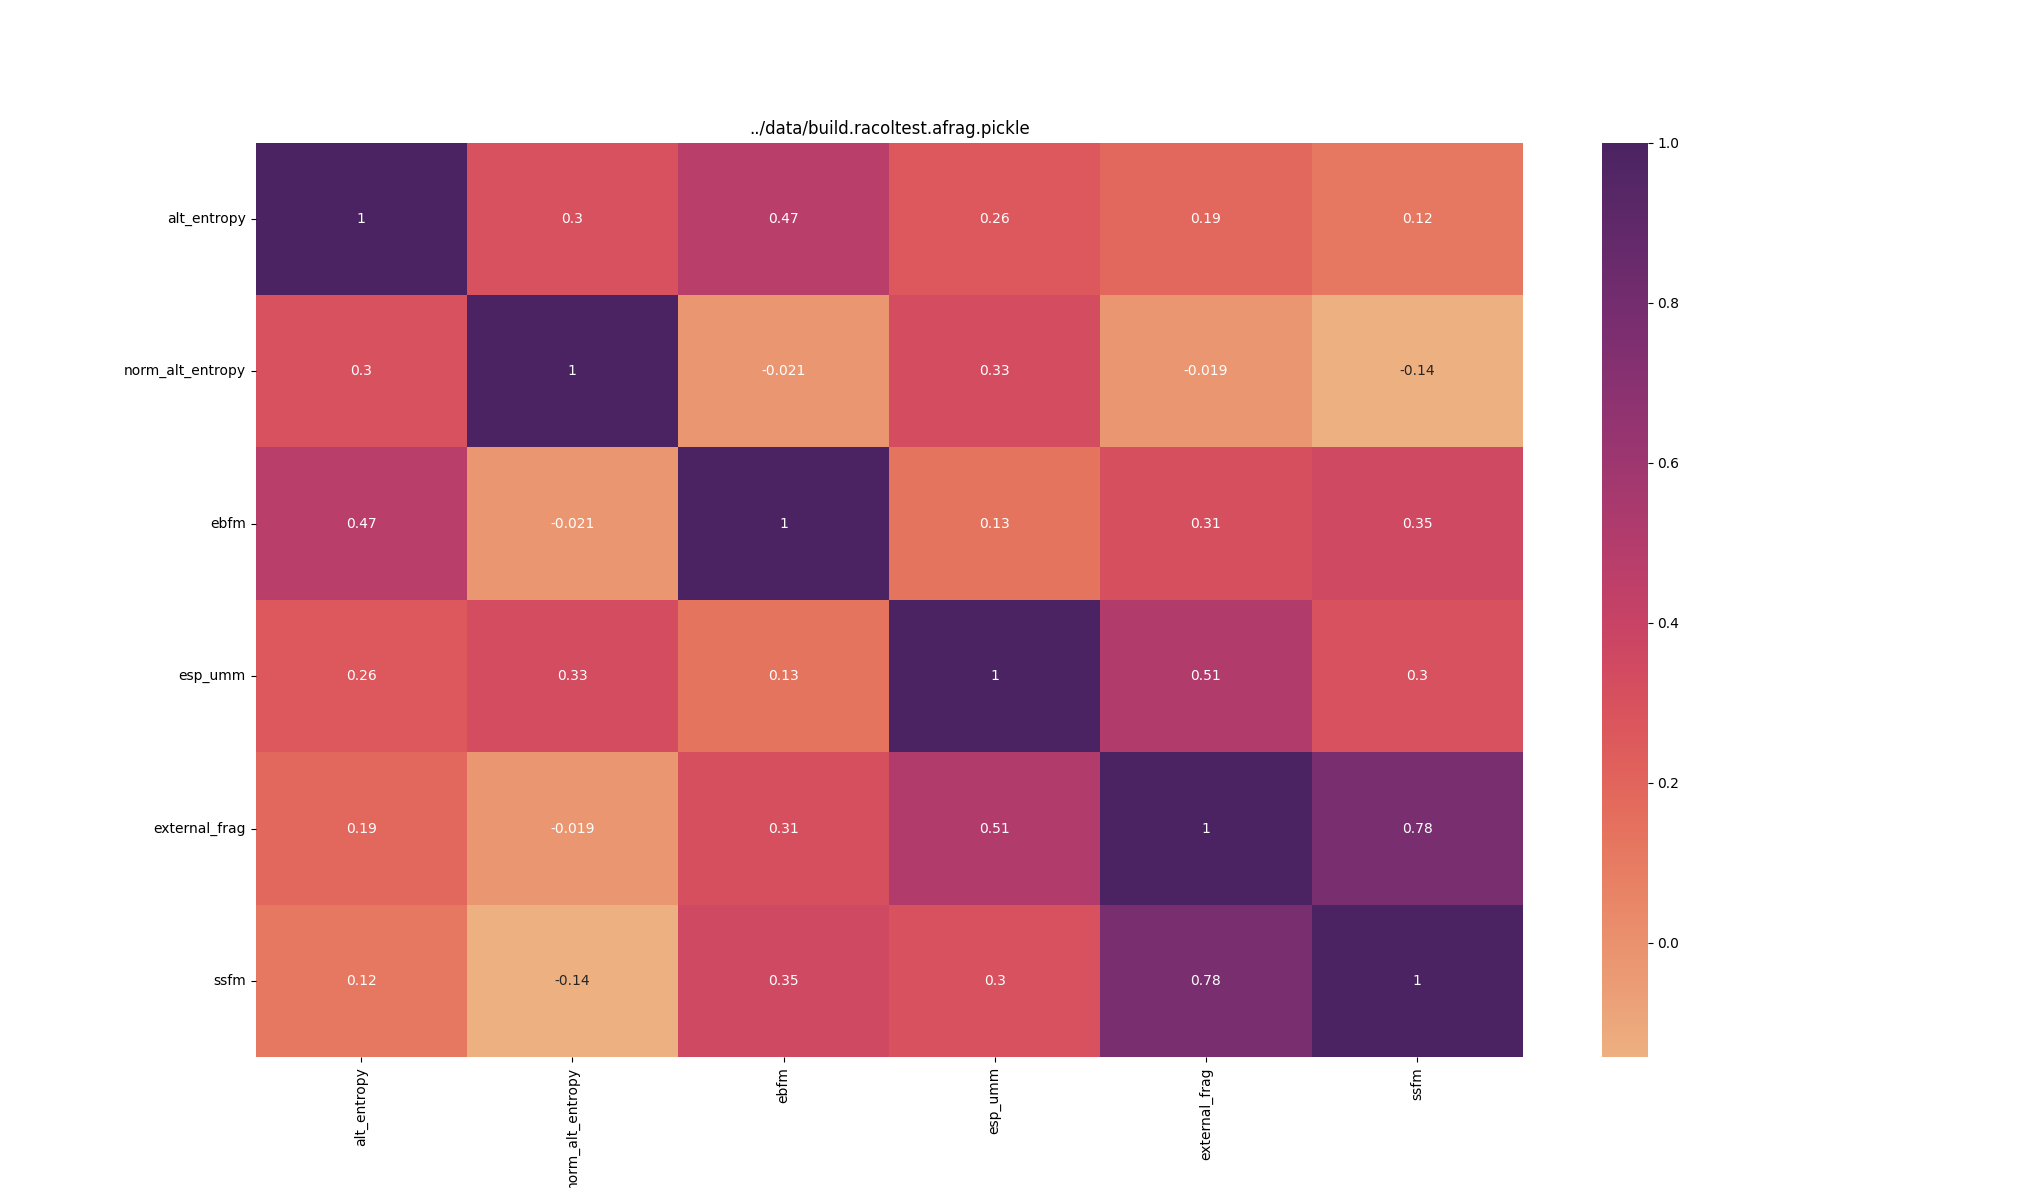
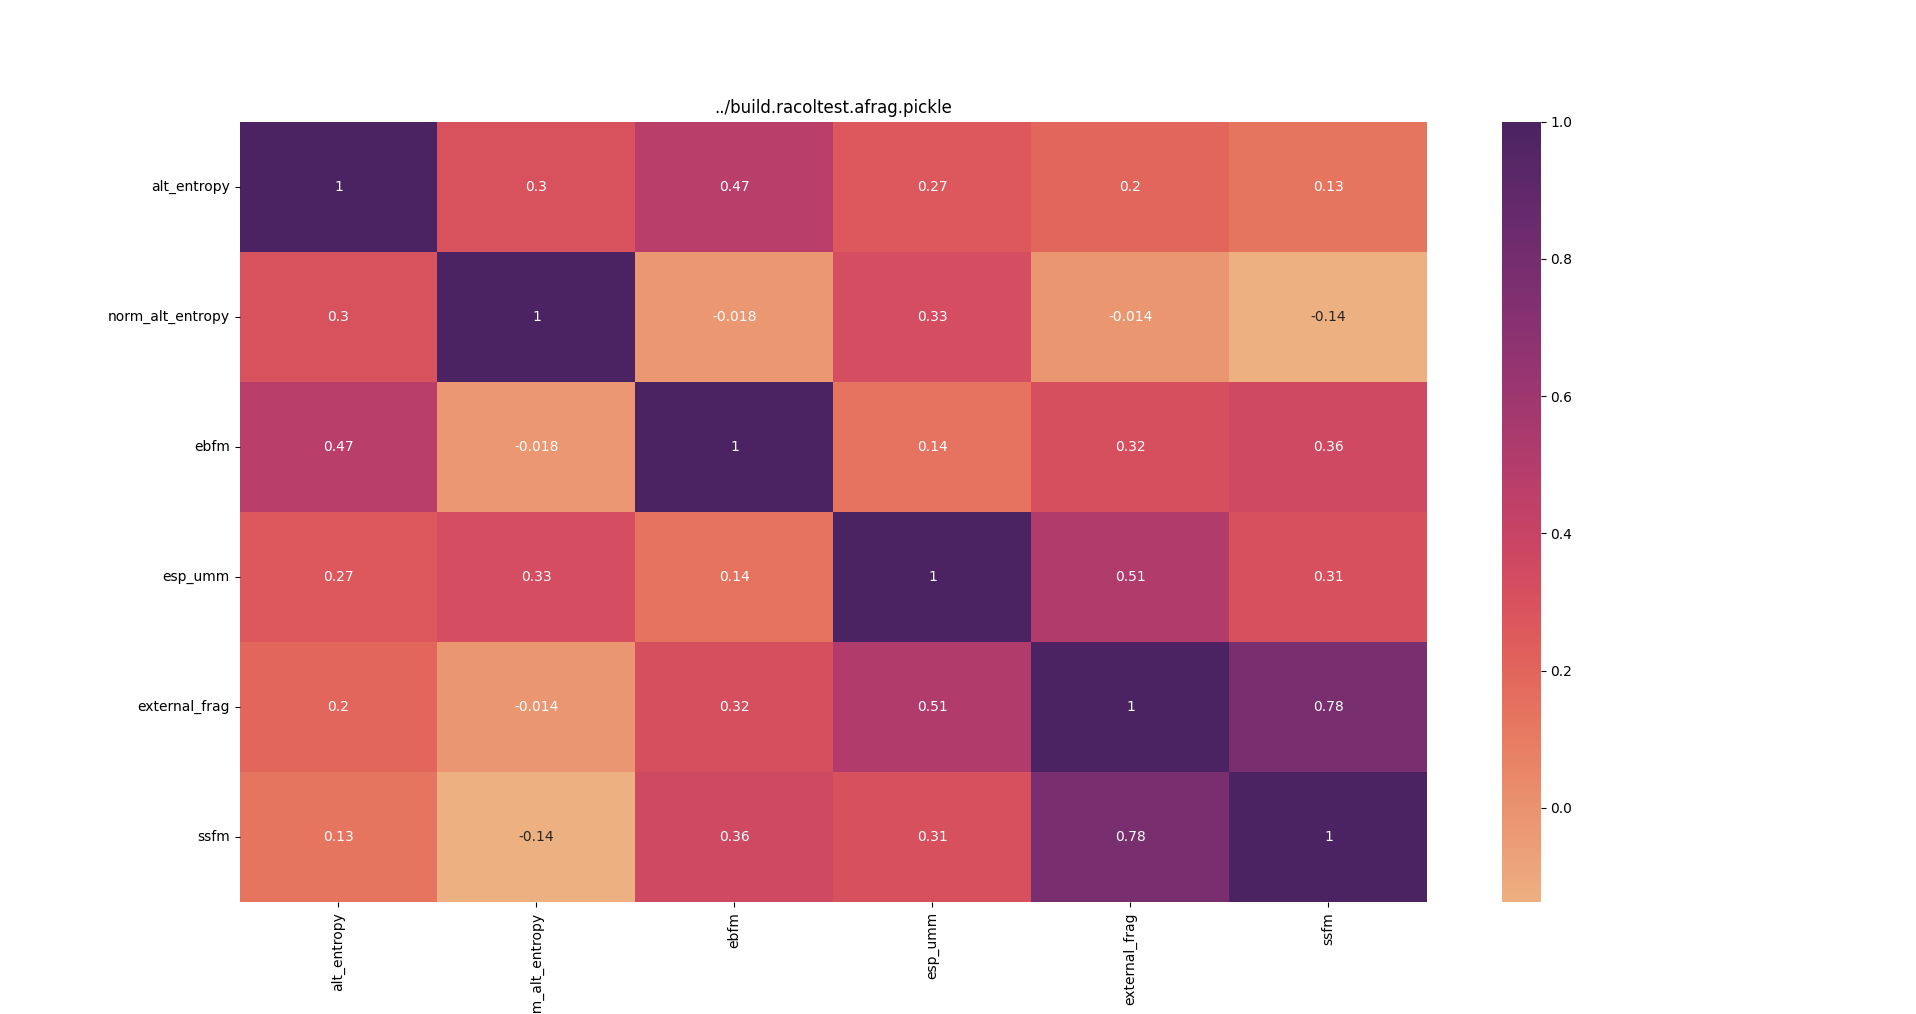
afrag and sfrag read and write all uses named objects

diff --git a/comparison/ccommon.py b/comparison/ccommon.py
@@ -4,21 +4,21 @@ import os
 import pickle
 
 sys.path.append(os.path.abspath(os.path.join(os.path.dirname(__file__), os.path.pardir)))
+
 import metrics.esp_umm as esp_umm
 import metrics.ebfm as ebfm
 import metrics.alternating_stream_entropy as alternating_stream_entropy
 import metrics.external_fragmentation as external_fragmentation
 import metrics.ssfm as ssfm
+
+import sfrag
+
 sys.path.remove(os.path.abspath(os.path.join(os.path.dirname(__file__), os.path.pardir)))
+
 
 _FRAG_FUNCTIONS = (alternating_stream_entropy.alt_entropy, alternating_stream_entropy.norm_alt_entropy, ebfm.ebfm, esp_umm.esp_umm, external_fragmentation.external_frag, ssfm.ssfm)
 
 _FUNC_NAMES = [x.__name__ for x in _FRAG_FUNCTIONS]
-
-class AfragLine():
-	def __init__(self, pid, metrics):
-		self.pid = pid
-		self.metrics = metrics
 
 def read_line(pickle_file):
 	with open(pickle_file, 'rb') as picklef:
@@ -27,6 +27,3 @@ def read_line(pickle_file):
 				yield pickle.load(picklef)
 		except EOFError:
 			pass
-
-def parse_afrag_line(afrag_line):
-	return AfragLine(afrag_line[0], afrag_line[1])

diff --git a/average_fragmentation.py b/average_fragmentation.py
@@ -44,6 +44,9 @@ if __name__ == "__main__":
 	step_size = 10000
 
 	sfragf = gzip.open(sfrag_file, "xb")
+	if os.path.exists(afrag_file):
+		print("Error: File exists \"{afrag_file}\"")
+		exit()
 	pid_cache = Cache("pid_cache.pickle")
 	file_size = os.path.getsize(trace_file)
 
@@ -104,7 +107,7 @@ if __name__ == "__main__":
 		true_avg = [x / cache_item.usage_hash for x in cache_item.pid_avg]
 		printer.printer(f"{pid}, {true_avg}")
 		# afragf.write(f"{line}\n")
-		pickle.dump((pid, true_avg), afragf)
+		pickle.dump(sfrag.AfragLine(pid, true_avg), afragf)
 
 	afragf.close()
 	pid_cache.close_cache_file(destroy=True)

diff --git a/comparison/main.py b/comparison/main.py
@@ -55,7 +55,6 @@ def pid_init(args):
 		for i, line in enumerate(ccommon.read_line(args.afrag)):
 			if i >= args.pc:
 				break
-			line = ccommon.parse_afrag_line(line)
 			args.pid.append(line.pid)
 		if args.pc >= len(args.pid):
 			print(f"[ArgParser] Warn: Requested {args.pc} samples, but only {len(args.pid)} samples exist in provided file")
@@ -63,7 +62,6 @@ def pid_init(args):
 	elif args.pr is not None:
 		all_pid = []
 		for line in ccommon.read_line(args.afrag):
-			line = ccommon.parse_afrag_line(line)
 			all_pid.append(line.pid)
 
 		if args.pr >= len(all_pid):

diff --git a/comparison/correlation.py b/comparison/correlation.py
@@ -6,10 +6,11 @@ import ccommon
 
 def afrag_spearman_corr(afrag_file, pids, metrics=[i for i in range(len(ccommon._FUNC_NAMES))]):
 	all_pids = True if pids == [] else False
+
 	col_names = [metric for i, metric in enumerate(ccommon._FUNC_NAMES) if i in metrics]
 	df = pandas.DataFrame(columns=col_names)
+
 	for line in ccommon.read_line(afrag_file):
-		line = ccommon.parse_afrag_line(line)
 		if all_pids or line.pid in pids:
 			new_row = [metric for i, metric in enumerate(line.metrics) if i in metrics]
 			df.loc[len(df)] = new_row

diff --git a/sfrag.py b/sfrag.py
@@ -9,3 +9,8 @@ class SfragLine:
 	def __init__(self, event_num : int, segment_metrics : Dict[str, PidMetrics]):
 		self.event_num = event_num
 		self.segment_metrics = segment_metrics
+
+class AfragLine:
+	def __init__(self, pid, metrics : list):
+		self.pid = pid
+		self.metrics = metrics
